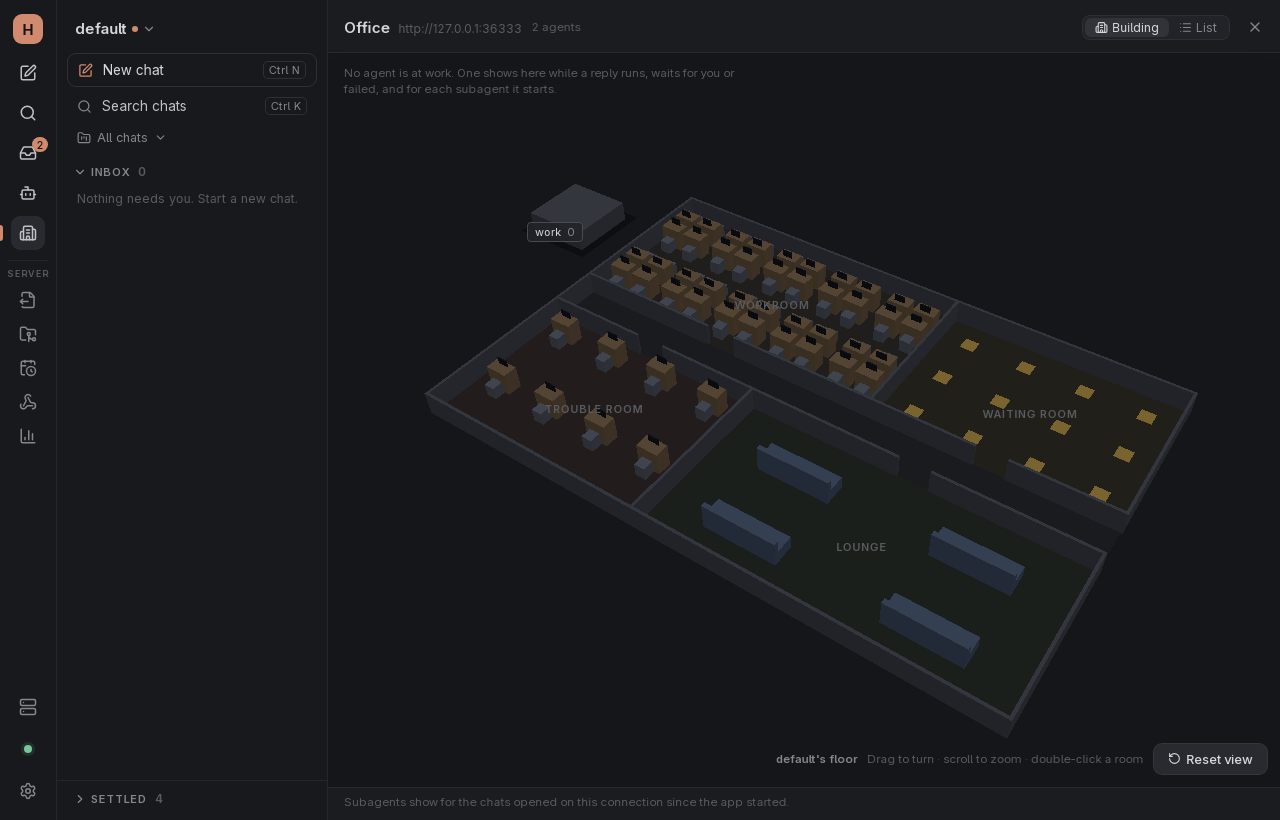
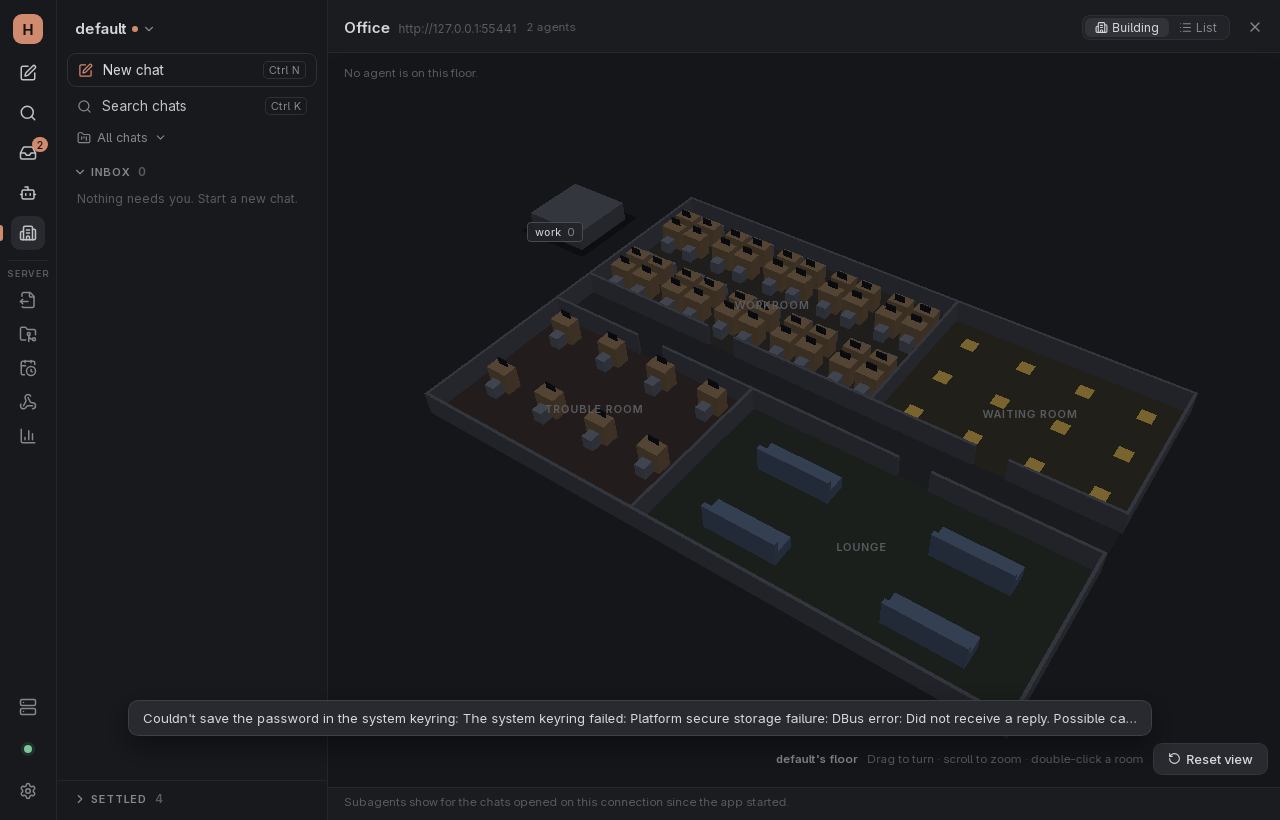
Office: fixes from review round 2 (#282)
A click on the canvas goes to whatever is nearest under the pointer, a
character or a tower floor, so a slab in front of an agent opens its floor.

An empty floor names going home only when its own profile has agents;
another empty floor says only that no agent is on it.

Shots 1 and 6 are taken again with the new note.

Changed region(s): [[0.0938, 0.8537, 0.875, 0.8841], [0.3125, 0.0915, 0.4375, 0.122], [0.375, 0.0305, 0.4375, 0.061]]

diff --git a/src/ui/office3d/scene.ts b/src/ui/office3d/scene.ts
@@ -173,13 +173,12 @@ export function mountOfficeScene(canvas: HTMLCanvasElement, events: SceneEvents,
   const onClick = (e: MouseEvent) => {
     if (!down || Math.hypot(e.clientX - down.x, e.clientY - down.y) > 5) return;
     raycaster.setFromCamera(ndc(e), camera);
-    const hit = raycaster.intersectObjects(figures.pickable, false)[0];
+    // The nearest thing under the pointer: a character, a tower floor, or one walking out, which can't be picked.
+    const hit = raycaster.intersectObjects([...figures.pickable, ...tower.pickable()], false)[0];
+    if (hit?.object.userData.floor !== undefined) return events.onFloor(hit.object.userData.floor as number);
     const key = hit?.instanceId === undefined ? undefined : figures.keyAt(hit.instanceId);
-    // An agent walking out of the building can't be picked, and isn't clicked through either.
     if (hit && key === undefined) return;
-    const slab = key === undefined ? raycaster.intersectObjects(tower.pickable(), false)[0] : undefined;
-    if (slab) events.onFloor(slab.object.userData.floor as number);
-    else events.onPick(key);
+    events.onPick(key);
   };
   // A double click on a room zooms to it, keeping the direction the camera looks from.
   const onDouble = (e: MouseEvent) => {

diff --git a/src/ui/OfficeBuilding.tsx b/src/ui/OfficeBuilding.tsx
@@ -247,9 +247,11 @@ export function OfficeBuilding({
         floor.characters.length === 0 &&
         floor.more === 0 && (
           <div className="office-note inbox-note">
-            {rooms.length === 0
-              ? "No agent is at work. One shows here while a reply runs, waits for you or failed, and for each subagent it starts."
-              : "No agent is on this floor. Finished agents go home 30 minutes after their last change, or once dismissed in the inbox. List shows every agent."}
+            {rooms.some((r) => r.profile === opened)
+              ? "No agent is on this floor. Finished agents go home 30 minutes after their last change, or once dismissed in the inbox. List shows every agent."
+              : rooms.length > 0
+                ? "No agent is on this floor."
+                : "No agent is at work. One shows here while a reply runs, waits for you or failed, and for each subagent it starts."}
           </div>
         )
       )}

diff --git a/src/ui/office.test.tsx b/src/ui/office.test.tsx
@@ -380,6 +380,13 @@ describe("The building", () => {
     expect(agents()).toHaveLength(1);
   });
 
+  it("says only that a floor is empty when its profile has no agent, while another floor has some", async () => {
+    const { user } = office("building", { rooms: sample(), profiles: ["home"] });
+    await user.click(await screen.findByRole("button", { name: /^home: 0 agents/ }));
+    await waitFor(() => expect(drawn.scene?.profile).toBe("home"));
+    expect(document.querySelector(".office-note")!.textContent).toBe("No agent is on this floor.");
+  });
+
   it("shows an agent's card, kept up to date while open, with Open chat as its only action", async () => {
     const { onOpen, user, rerender } = office("building");
     await user.click(screen.getByRole("button", { name: /^Read the auth code, Running/ }));

diff --git a/docs/screenshots/office-hq/stage2/README.md b/docs/screenshots/office-hq/stage2/README.md
@@ -1,13 +1,13 @@
 # Office HQ stage 2 (#282)
 
-Taken with the verify skill (`.claude/skills/verify-hermes-chat`) in the real app, headless (Xvfb, llvmpipe software WebGL), against the stand-in dashboard started with `HV_INBOX=1`. Another profile's reply is driven with the stand-in's `POST /__live`, as `session.active_list` reports one.
+Taken with the verify skill (`.claude/skills/verify-hermes-chat`) in the real app, headless (Xvfb, llvmpipe software WebGL), against the stand-in dashboard started with `HV_INBOX=1`. Shots 1 and 6 come from a run after the review fixes, the others from a run before them; nothing the others show changed. Another profile's reply is driven with the stand-in's `POST /__live`, as `session.active_list` reports one.
 
-1. `1-default-floor-tower.png`: the office opens on the shown profile's floor. `work` is a closed floor in the tower beside the building, with its agent count. Its two seeded Unread chats were last active 1 hour and 3 days ago, so they have gone home.
+1. `1-default-floor-tower.png`: the office opens on the shown profile's floor. `work` is a closed floor in the tower beside the building, with its agent count. Its two seeded Unread chats were last active 1 hour and 3 days ago, so they have gone home. `default` has no agent either, and its floor says so. (The keyring note at the bottom is this headless run's; it has no keyring.)
 2. `2-work-floor-typing.png`: a reply started in `work`, seen on its floor 13.4 s after it started (5.5 s in an earlier run). Looking at `work`'s floor leaves the app on `default`, and `default` is in the tower.
 3. `3-walking-to-waiting-room.png`: the reply now waits for an approval. It walks out of the Workroom and along the hallway.
 4. `4-waiting-room.png`: it arrives in the Waiting room, hand up under a "!".
 5. `5-lounge-unread.png`: the reply ended, and the Inbox's read of `work` says the chat is Unread: it sits on a Lounge couch.
-6. `6-walking-out-after-dismiss.png`: its Inbox entry dismissed, the office opened again walks it out of the Lounge toward the front door.
+6. `6-walking-out-after-dismiss.png`: its Inbox entry dismissed, the office opened again walks it off the Lounge couch toward the front door. The floor's note says why agents leave.
 7. `7-three-typing-default.png`: a delegating reply in `default`, three agents typing; `work`'s floor in the tower is lit with "!" while its reply waits for an approval.
 
 ## Requests while another profile's reply starts
